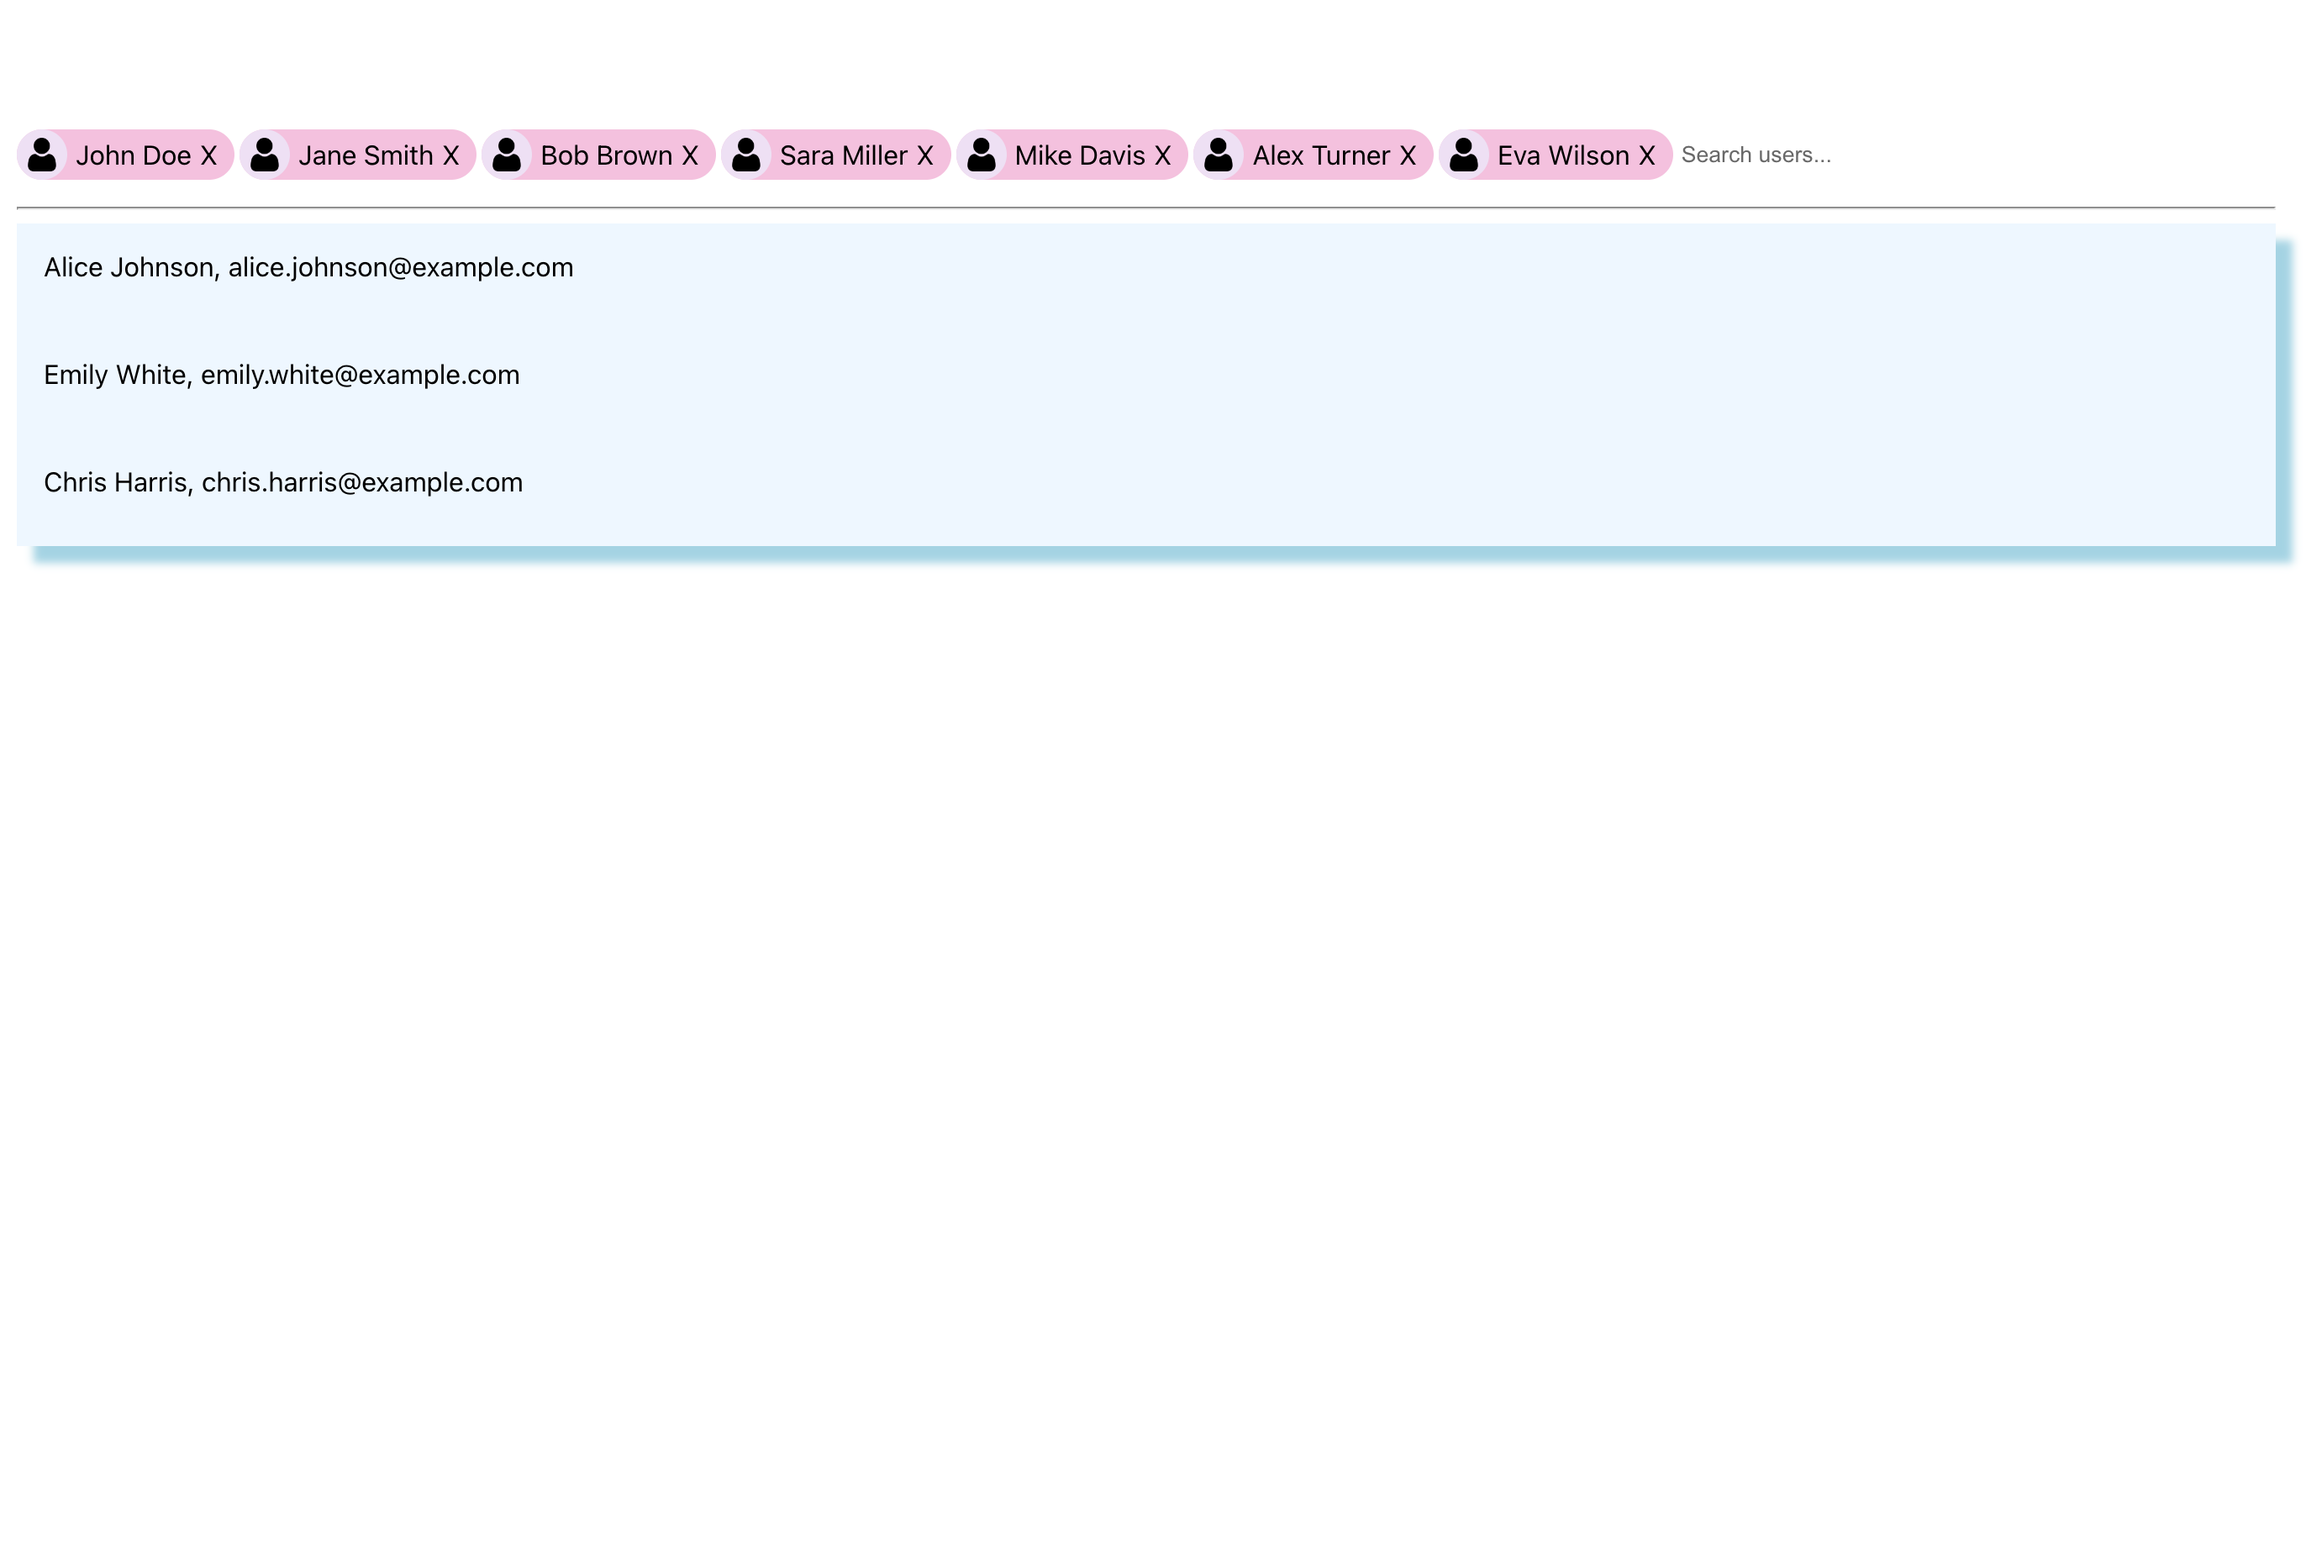
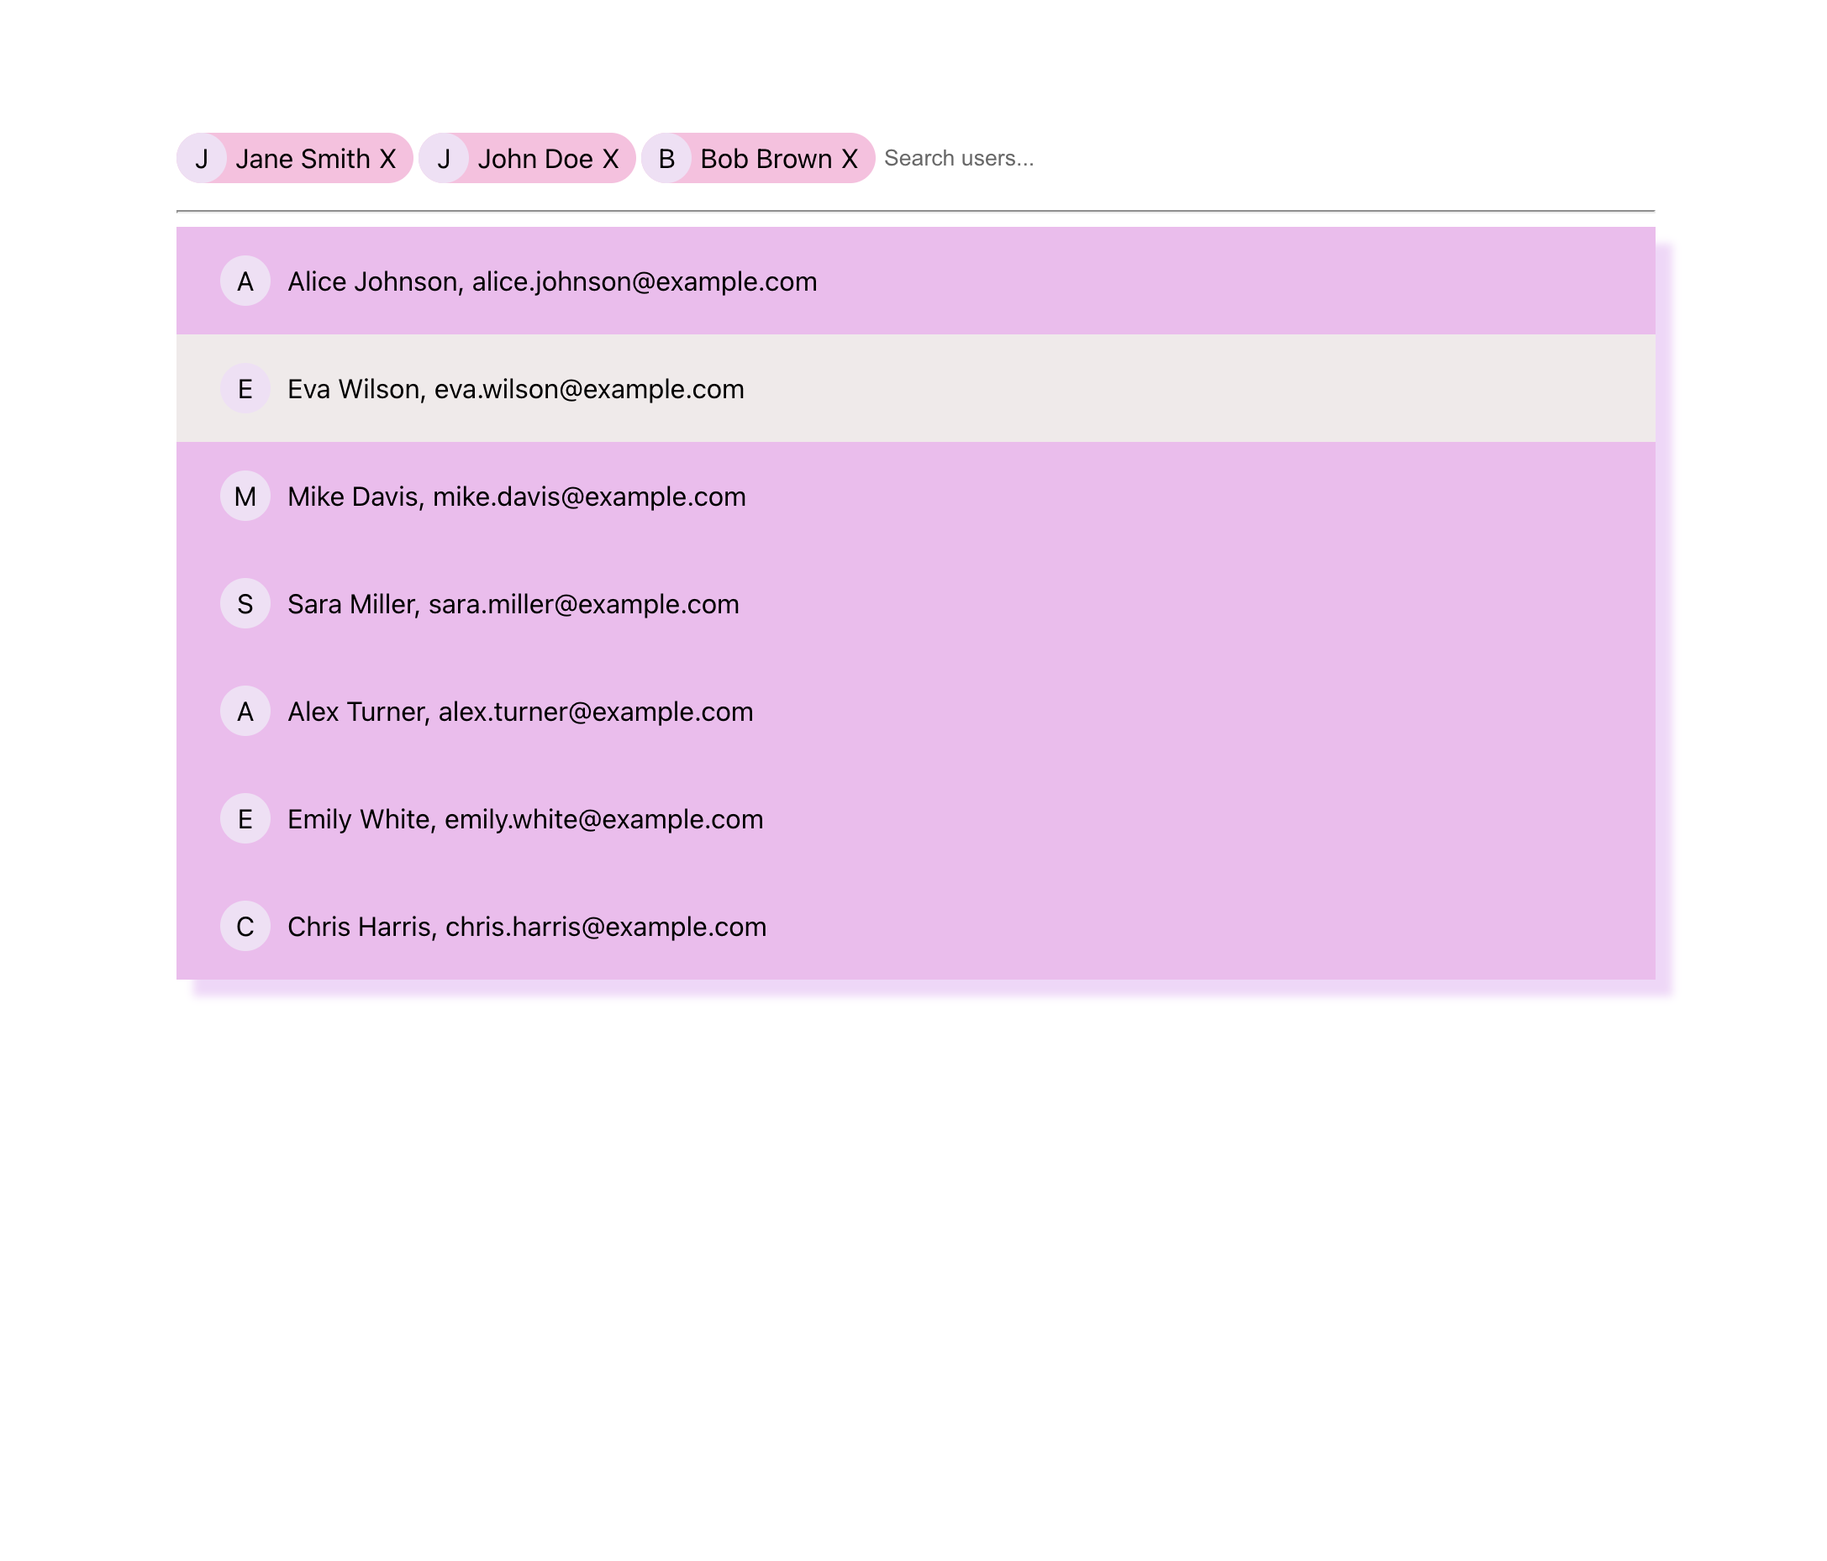
improvements added

diff --git a/src/component/chip/Chip.tsx b/src/component/chip/Chip.tsx
@@ -2,6 +2,7 @@ import React from 'react';
 import './Chip.css'
 import { User } from '../../data/users';
 import userIcon from '../../assets/user.png';
+import { Avatar } from '../avatar/Avatar';
 
 interface ChipProps {
   user: User;
@@ -13,10 +14,16 @@ interface ChipProps {
 const Chip: React.FC<ChipProps> = ({ user, removeUser, disabled, highlighted }) => {
   return (
     <div className={`selected__chip ${highlighted && 'chip__highlighted'}`}>
-      <div className="avatar">
+      {/* <div className="avatar">
         <img src={userIcon} id="user__icon" />
-      </div>
-      {user.name}
+      </div> */}
+
+
+      <Avatar letter={user.name[0].toUpperCase()} />
+      <span id="username">
+        {user.name}
+      </span>
+
       <span id="closeButton" onClick={() => removeUser(user)}>X</span>
     </div>
   );

diff --git a/src/component/searchBar/SearchBarPresenter.tsx b/src/component/searchBar/SearchBarPresenter.tsx
@@ -1,6 +1,7 @@
 import React, { RefObject, ChangeEvent, KeyboardEvent, LegacyRef, forwardRef } from 'react';
 import Chip from '../chip/Chip'
 import { User } from '../../data/users';
+import { Avatar } from '../avatar/Avatar';
 
 
 
@@ -52,6 +53,9 @@ const SearchBarPresenter = forwardRef((
                 <div className="search__results">
                     {filteredList.map((user) => (
                         <div key={user.id} onClick={() => addNewUser(user)} className="user">
+                            <div className="avatar_container">
+                                <Avatar letter={user.name[0].toUpperCase()} />
+                            </div>
                             {user.name}, {user.email}
                         </div>
                     ))}

diff --git a/src/component/searchBar/SearchBar.css b/src/component/searchBar/SearchBar.css
@@ -6,13 +6,15 @@
 }
 
 .user {
+    display: flex;
     height: 2rem;
     padding: 1rem;
+    align-items: center;
 }
 
 .user:hover {
     cursor: pointer;
-    background-color: gainsboro;
+    background-color: rgb(241, 236, 236);
 }
 
 
@@ -28,9 +30,9 @@
 }
 
 .search__results {
-    box-shadow: 10px 10px 5px lightblue;
-    background-color: aliceblue;
-    height: 60vh;
+    box-shadow: 10px 10px 5px rgb(240, 219, 248);
+    background-color: rgb(236, 196, 238);
+    max-height: 60vh;
     overflow-y: scroll;
 }
 
@@ -39,4 +41,8 @@ input {
     border: none;
     outline: none;
 
+}
+
+.avatar_container {
+    margin: 10px;
 }

diff --git a/src/data/users.ts b/src/data/users.ts
@@ -15,9 +15,4 @@ export const users: User[] = [
     { id: 8, name: 'Alex Turner', email: 'alex.turner@example.com' },
     { id: 9, name: 'Emily White', email: 'emily.white@example.com' },
     { id: 10, name: 'Chris Harris', email: 'chris.harris@example.com' },
-    { id: 11, name: 'Mike Davis', email: 'mike.davis@example.com' },
-    { id: 12, name: 'Sara Miller', email: 'sara.miller@example.com' },
-    { id: 13, name: 'Alex Turner', email: 'alex.turner@example.com' },
-    { id: 14, name: 'Emily White', email: 'emily.white@example.com' },
-    { id: 15, name: 'Chris Harris', email: 'chris.harris@example.com' },
 ];

diff --git a/src/component/chip/Chip.css b/src/component/chip/Chip.css
@@ -23,6 +23,12 @@
   margin-right: 5px;
 }
 
+
+
+#username {
+  margin-left: 5px;
+}
+
 #user__icon {
   height: 20px;
   width: 20px;

diff --git a/README.md b/README.md
@@ -1,3 +1,3 @@
 # Search bar demo
 
-![Demo](https://github.com/carbseater/search-bar/assets/59422042/70d80f92-6a7d-4959-bc3b-3a25892688bd)
+![Demo](https://github.com/carbseater/search-bar/assets/59422042/fbd19b32-f193-4f73-ab1e-ae7575d9c147)
